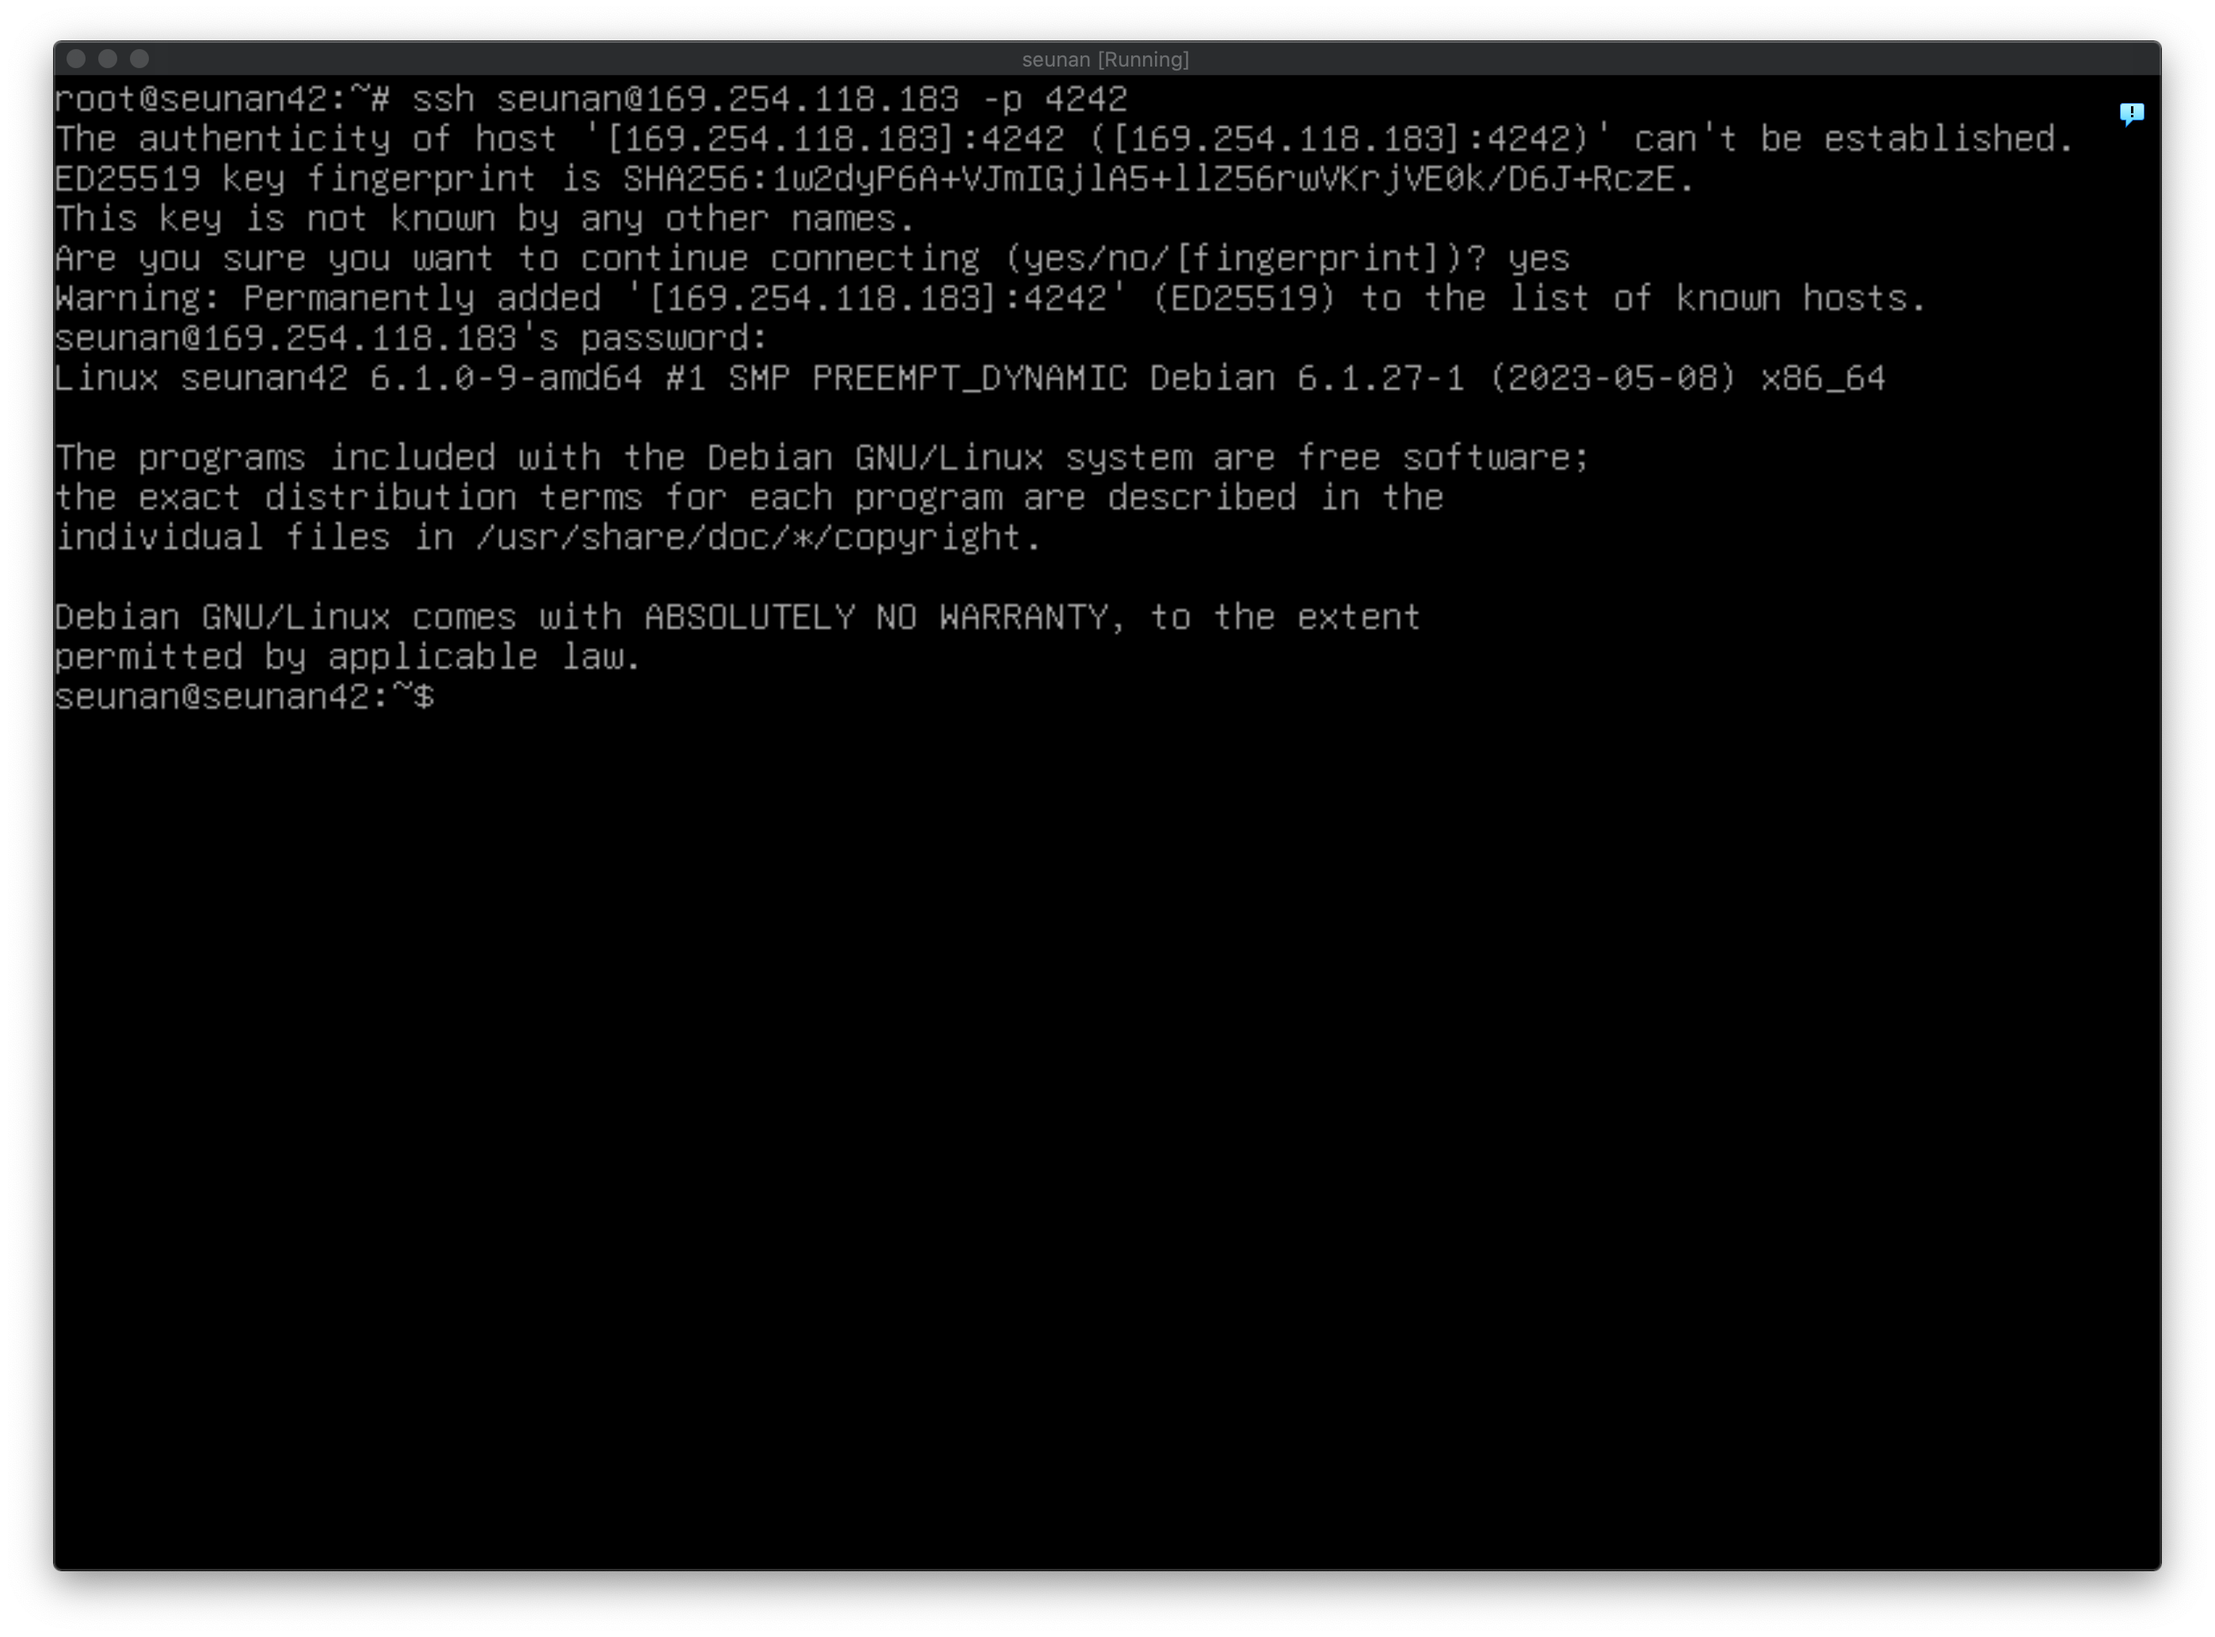
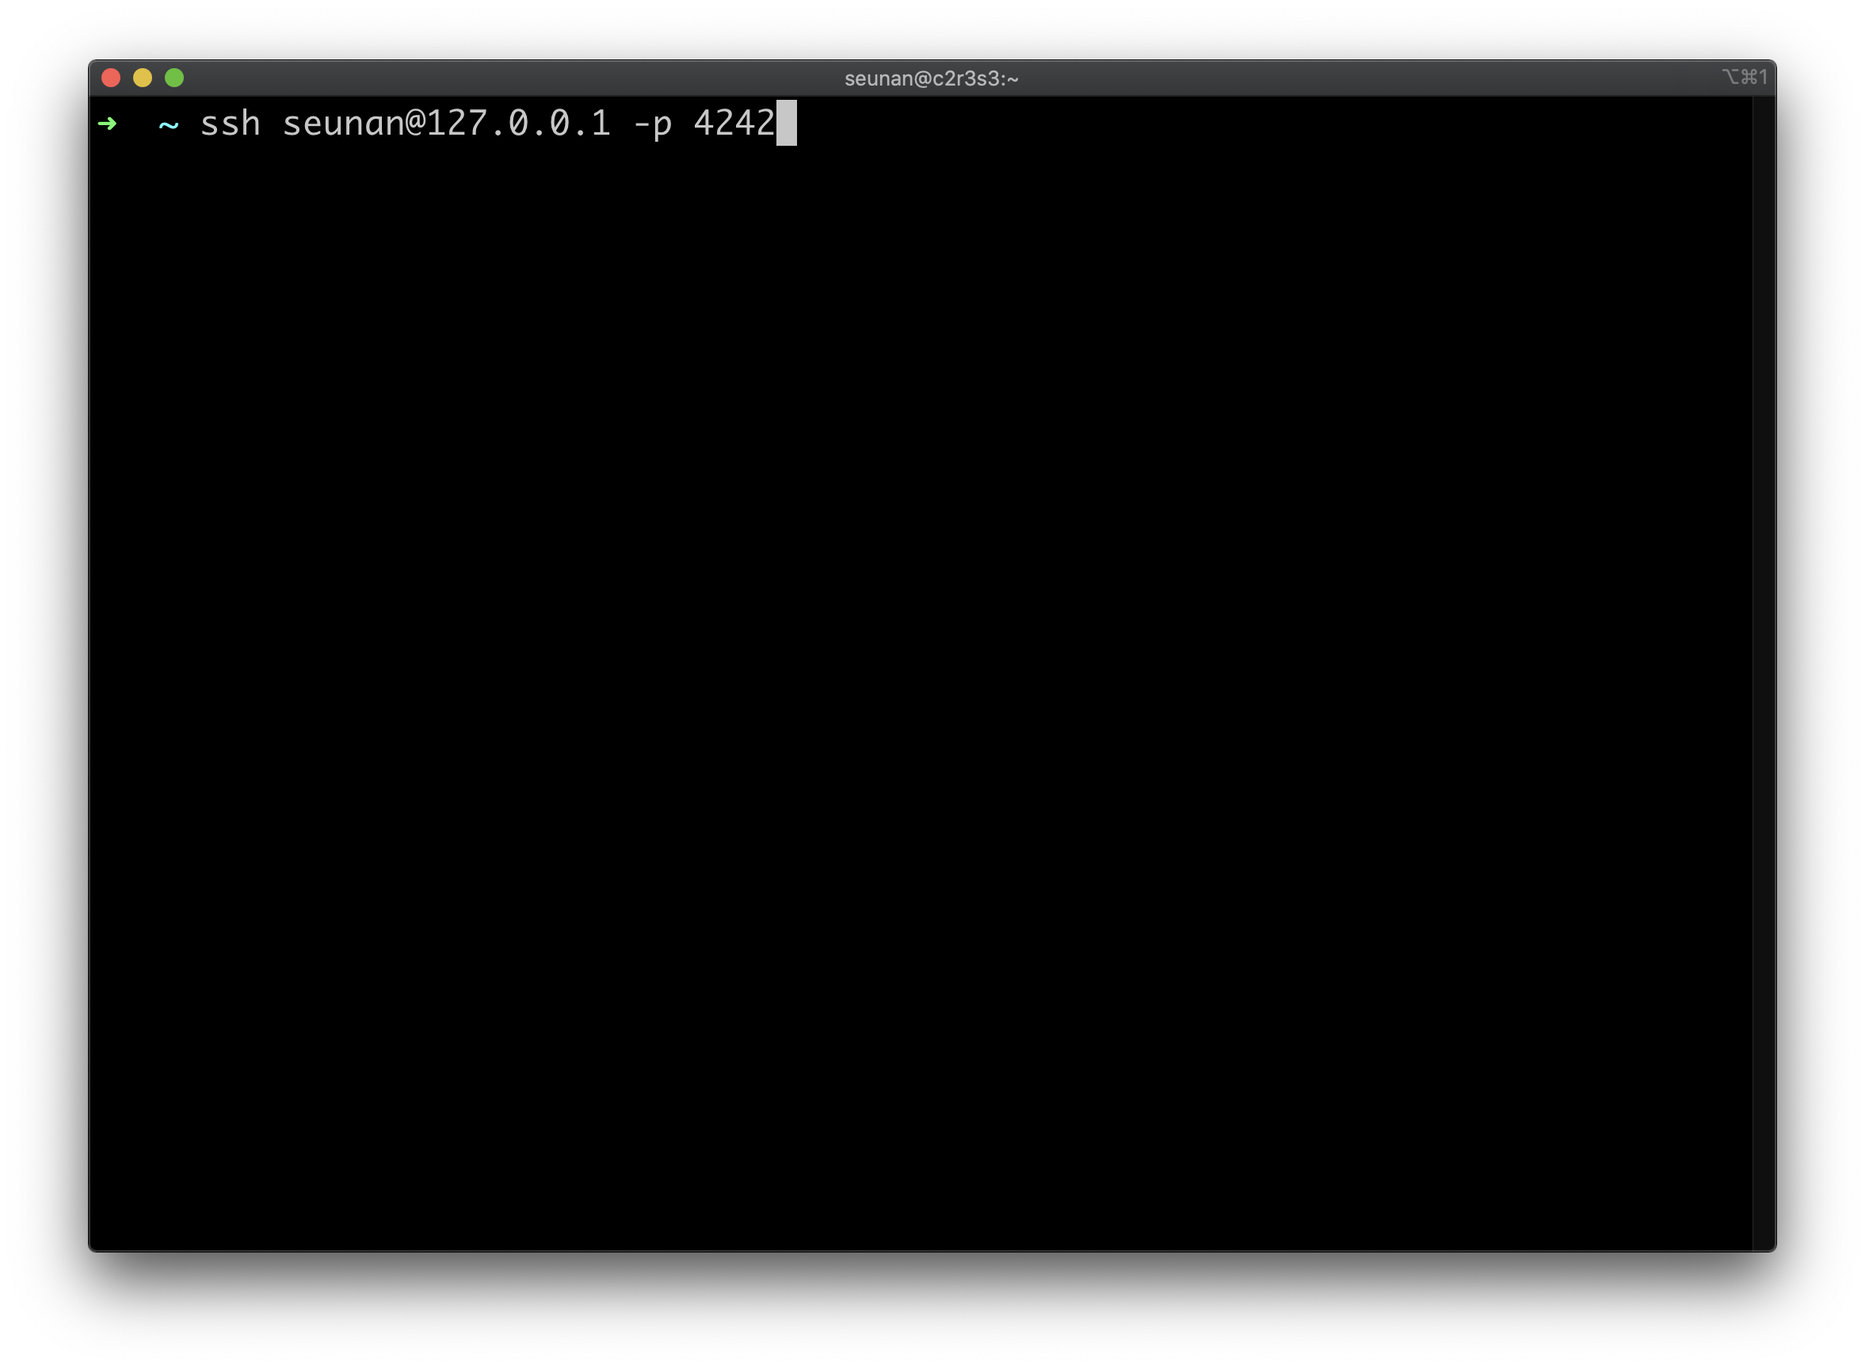
멘덴 평가 준비 끝

Changed region(s): [[0.0, 0.0, 0.9924, 1.0], [0.5582, 0.375, 0.6202, 0.4062]]

diff --git a/1_born2beroot/readme.md b/1_born2beroot/readme.md
@@ -6,9 +6,10 @@
 - [SSH](#ssh)
 - [UFW](#ufw)
 - [PASSWORD POLICY](#password-policy)
-- [GROUP](#group)
+- [GROUP, USER](#group-user)
 - [SUDO](#sudo)
 - [monitoring.sh](#monitoringsh)
+- [SHELL](#shell)
 
 ## Install Guide
 ![](img/1.png)
@@ -39,6 +40,7 @@
 ![](img/26.png)
 ![](img/27.png)
 ![](img/28.png)
+/boot(sda1) 파티션을 500mib로 만드는 법은 아직도 모르겠다.
 ![](img/29.png)
 ![](img/30.png)
 ![](img/31.png)
@@ -79,6 +81,7 @@ ufw enable # ufw 활성화
 ufw default deny incoming # 들어오는 접속을 거부하는 기본값 설정
 ufw default allow outgoing # 나가는 것을 허용하는 기본값 설정
 ufw allow 4242 # 4242 포트 열기
+# ----------참고--------------
 ufw status verbose # 방화벽이 활성화되어 있는지 확인
 cat /etc/ufw/user.rules # ufw default rules 조회
 ufw status numbered # 규칙의 번호가 매겨진 목록을 표시
@@ -92,12 +95,24 @@ ufw delete <rule number> # 번호를 사용하여 특정 규칙을 삭제
 ## SSH
 ![](img/49.png)
 ![](img/50.png)
+port와 PermitRootLogin만 수정
 ![](img/51.png)
 ![](img/52.png)
 ![](img/53.png)
 ![](img/54.png)
+en0의 ip를 적어주면 된다. [(en0과 en1의 차이)](https://stackoverflow.com/questions/29958143/what-are-en0-en1-p2p-and-so-on-that-are-displayed-after-executing-ifconfig)
 ![](img/55.png)
+[127.0.0.1](https://en.wikipedia.org/wiki/Localhost) 자신의 IP주소인 루프백 주소로 써도 된다.
+![](img/65.png)
+User log는 접속해있는 유저의 수를 말한다. (1)
 ![](img/56.png)
+![](img/63.png)
+```bash
+ssh seunan@127.0.0.1 -p 4242
+를 통해 4242 포트로 연결
+```
+![](img/64.png)
+User log가 2로 증가한 것을 볼 수 있다.
 ![](img/57.png)
 ```bash
 apt-get install openssh-server
@@ -144,20 +159,36 @@ PASS_MAX_DAYS 30
 PASS_MIN_DATS 2
 PASS_WARN_AGE 7
 
-apt-get install libpam-pwquality # pwquality 라이브러리 설치
+apt-get install libpam-pwquality # pwquality 라이브러리 설치했지만 pam_cracklib.so 설치 추천 !
 vi /etc/pam.d/common-password
 retry=3 minlen=10 ucredit=-1 lcredit=-1 dcredit=-1 maxrepeat=3 reject_username enforce_for_root difok=7 # root는 password에 대한 캐시를 저장하지 않기 때문에 difok 설정이 안먹음
 
-passwd -e <username> # password 변경
+passwd # password 변경
 ```
 - [Password policy1](https://techpicnic.tistory.com/506)
 - [Password policy2](https://www.haedongg.net/2020/08/28/linux-%ED%8C%A8%EC%8A%A4%EC%9B%8C%EB%93%9C-%EA%B4%80%EB%A0%A8-%EC%A0%95%EC%B1%85-%EC%84%A4%EC%A0%95/)
 - [man PAM_PWQUALITY](https://manpages.debian.org/stretch/libpam-pwquality/pam_pwquality.8.en.html)
 - [Managing Password Complexity in Linux](https://www.baeldung.com/linux/password-complexity)
-## GROUP
-- [group](https://www.manualfactory.net/13414)
-- [Verify user groups](https://goni9071.tistory.com/68)
-- [user](https://withcoding.com/101)
+## GROUP, USER
+```bash
+id <username> # == groups, user의 groups 확인
+cat /etc/group # 그룹 목록
+groupadd <groupname> # 그룹 생성
+groupdel <groupname> # 그룹 삭제
+gpasswd -a <username> <groupname> # user를 group에 추가
+gpasswd -d <username> <groupname> # user를 group에서 삭제
+groupmod -n group2 group1 # group1을 group2로 변경
+
+su <username> # 사용자 변경
+useradd # 유저 생성(수동)
+	-m # 사용자 홈 디렉토리도 함께 생성
+	-g # 그룹 지정
+	-d # 디렉토리 지정
+	-s # 쉘 지정
+	-p # 패스워드 지정
+adduser # 유저 생성(비밀번호, 홈 디렉토리 등 자동 설정)
+userdel # 유저 삭제
+```
 
 ## SUDO
 ![](img/41.png)
@@ -186,6 +217,16 @@ usermod -aG sudo <username> # user에게 sudo 그룹 권한
 - [what is tty](https://jake-seo-dev.tistory.com/115)
 
 ## monitoring.sh
+![](img/66.png)
+![](img/67.png)
+![](img/64.png)
+![](img/65.png)
+```bash
+crontab -e
+```
+![](img/68.png)
+권한을 안주면 실행이 안된다.
+![](img/69.png)
 - [The architecture of your operating system and its kernel version](https://www.cyberciti.biz/faq/find-print-linux-unix-kernel-version/)
 - [The number of physical processors1](https://www.cyberciti.biz/faq/check-how-many-cpus-are-there-in-linux-system/)
 - [The number of physical processors2](https://www.baeldung.com/linux/get-number-of-processors)
@@ -201,11 +242,11 @@ usermod -aG sudo <username> # user에게 sudo 그룹 권한
 - [The IPv4 address of your server and its MAC (Media Access Control) address1](https://www.howtouselinux.com/post/linux-command-get-mac-address-in-linux)
 - [The IPv4 address of your server and its MAC (Media Access Control) address2](https://www.baeldung.com/linux/get-mac-address)
 - [The number of commands executed with the sudo program](https://unix.stackexchange.com/questions/167935/details-about-sudo-commands-executed-by-all-user)
+- [crontab](https://jdm.kr/blog/2)
+- [wall](https://linuxize.com/post/wall-command-in-linux/)
 
-## crontab
-- [1](https://jdm.kr/blog/2)
 
-
-https://serverfault.com/questions/50585/whats-the-best-way-to-check-if-a-volume-is-mounted-in-a-bash-script
-https://phoenixnap.com/kb/bash-printf
-https://recipes4dev.tistory.com/171#recentEntries
+## SHELL
+- [shell if](https://serverfault.com/questions/50585/whats-the-best-way-to-check-if-a-volume-is-mounted-in-a-bash-script)
+- [shell printf](https://phoenixnap.com/kb/bash-printf)
+- [shell awk](https://recipes4dev.tistory.com/171#recentEntries)
